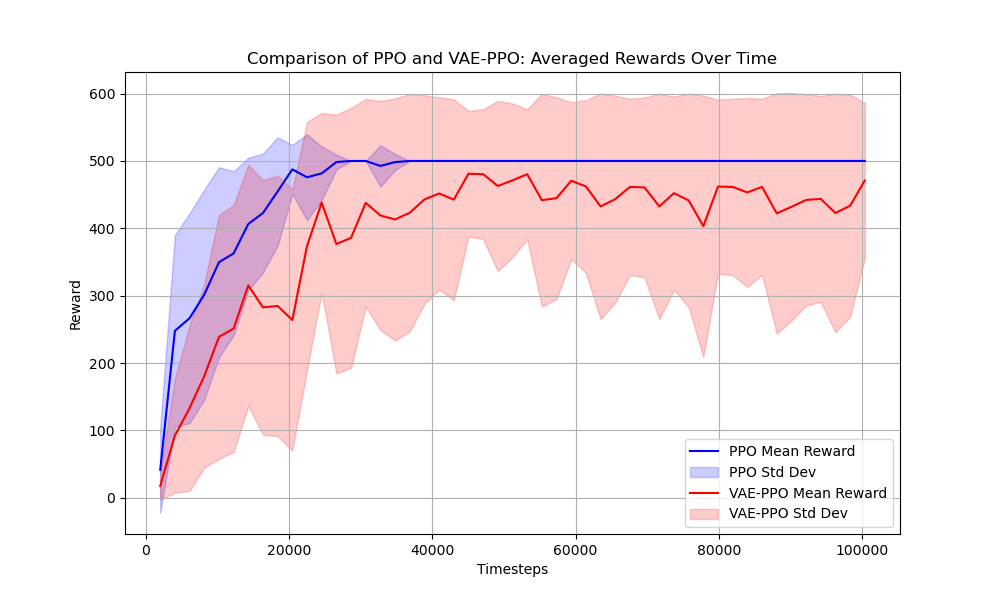
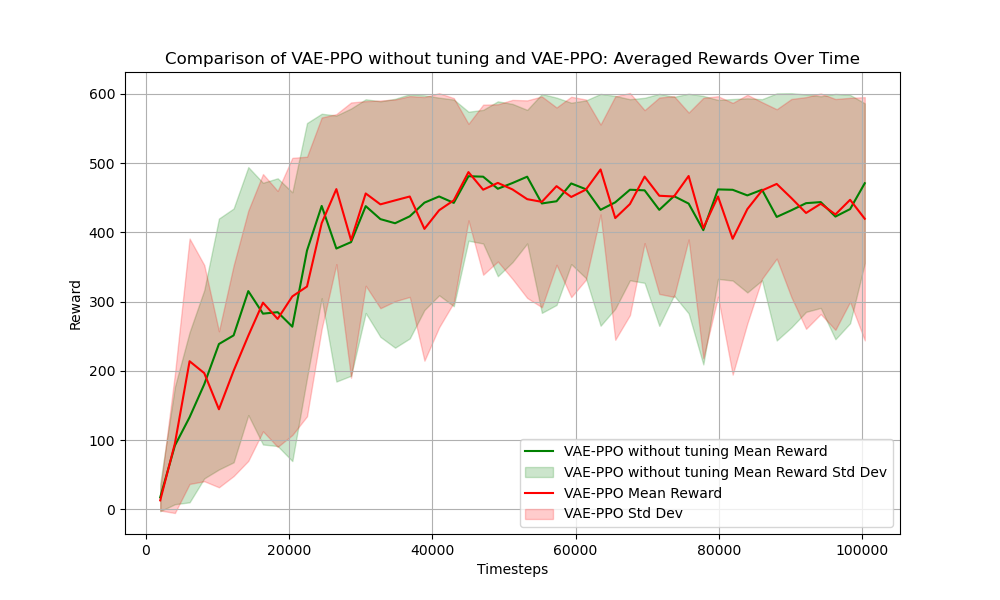
minor

diff --git a/model_eval/visualize_averaged_reward.py b/model_eval/visualize_averaged_reward.py
@@ -161,7 +161,7 @@ def visualize_combined(ppo_file, vae_ppo_file, save = False, show = True):
     if show :
         plt.show()
 
-def visualize_combined_vaes(ppo_file, vae_ppo_no_tuning_average_file, save = False, show = True):
+def visualize_combined_vaes( vae_ppo_no_tuning_average_file,vae_ppo_file, save = False, show = True):
     """
     Plot PPO and VAE-PPO rewards on the same graph with different colors.
 
@@ -170,7 +170,7 @@ def visualize_combined_vaes(ppo_file, vae_ppo_no_tuning_average_file, save = Fal
         vae_ppo_file (str): Path to the VAE-PPO results file.
     """
     # Load PPO data
-    ppo_data = np.load(ppo_file)
+    ppo_data = np.load(vae_ppo_no_tuning_average_file)
     ppo_timesteps = ppo_data["timesteps"]
     ppo_mean_rewards = ppo_data["mean_rewards"]
     ppo_std_rewards = ppo_data["std_rewards"]
@@ -244,9 +244,17 @@ if __name__ == "__main__" :
 
     # define averaged files :
     ppo_average_dir = os.path.join(base_dir, "logs", "PPO")
-    vae_ppo_average_dir = os.path.join("logs", "VAE_PPO", "V2.1", "rand_env_1M")
+    vae_ppo_no_tuning_average_dir = './logs/VAE_PPO/VAE_Version_1.08/5_2/KL-D_0.00097/rand_env_1M'
+
+    vae_ppo_average_dir = './logs/VAE_PPO/VAE_Version_1.08/5_2/KL-D_0.00097/rand_env_1M'
     os.makedirs(ppo_average_dir, exist_ok=True)
     os.makedirs(vae_ppo_average_dir, exist_ok=True)
+
+    vae_ppo_no_tuning_average_file = os.path.join(vae_ppo_no_tuning_average_dir , "batch_1M_no_tuning_VAE_Version_1.08_vae_exp_0.3noise_10ep_config_v1_penta_input_large_latent_5.npz")
+    vae_ppo_average_file = os.path.join(vae_ppo_average_dir , "batch_1M_VAE_Version_1.08_vae_exp_0.3noise_10ep_config_v1_penta_input_large_latent_5.npz")
+
+    visualize_combined_vaes(vae_ppo_no_tuning_average_file , vae_ppo_average_file , save=True , show=True)
+
     '''
     # average the rewards :
     ppo_average(output_file=os.path.join(ppo_average_dir, "batch_size_10.npz"),
@@ -255,7 +263,7 @@ if __name__ == "__main__" :
         output_file=os.path.join(vae_ppo_average_dir, "batch_size_10.npz"),
         base_log_dir=os.path.join(base_dir, "..", "VAE_PPO_train", "logs", "batch_1M_VAE_Version_2.1_vae_mix_10ep_config_A_2"))
     # Define file paths
-    '''
+    
 
     ppo_file = os.path.join(ppo_average_dir, "averaged_evaluation_rand_env_seed10_100k_7.npz")
 
@@ -308,3 +316,4 @@ if __name__ == "__main__" :
         vae_ppo_file = os.path.join(vae_ppo_average_dir, f"batch_1M_{vae_version}_{vae_name}.npz")
 
         visualize_combined(ppo_file, vae_ppo_file, save=True, show=False)
+    '''
